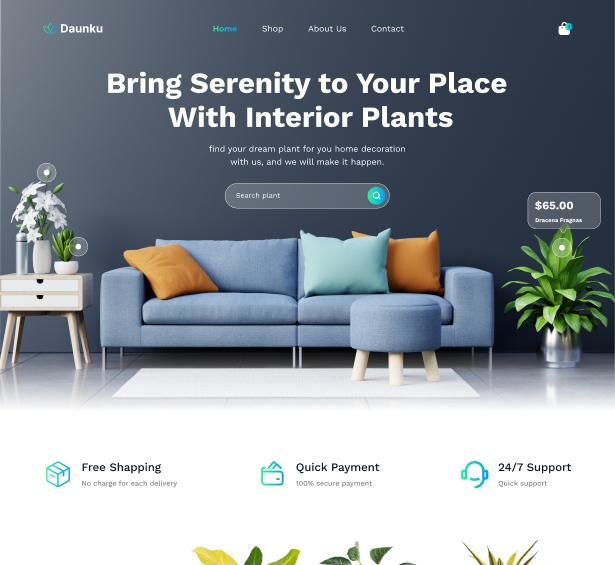
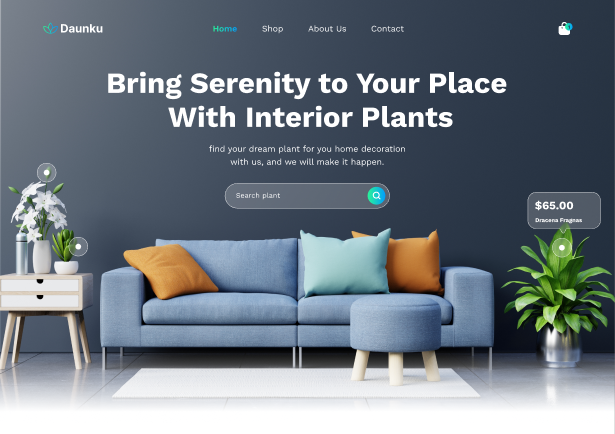
Added some texts and Updated poster image

diff --git a/README.md b/README.md
@@ -1,4 +1,4 @@
 ![alt text](img/poster.png)
 ## Plant Shop - Web Site as an Online Shop 
 
-###
+### Open with your app, Use code and Enjoy 🙃
